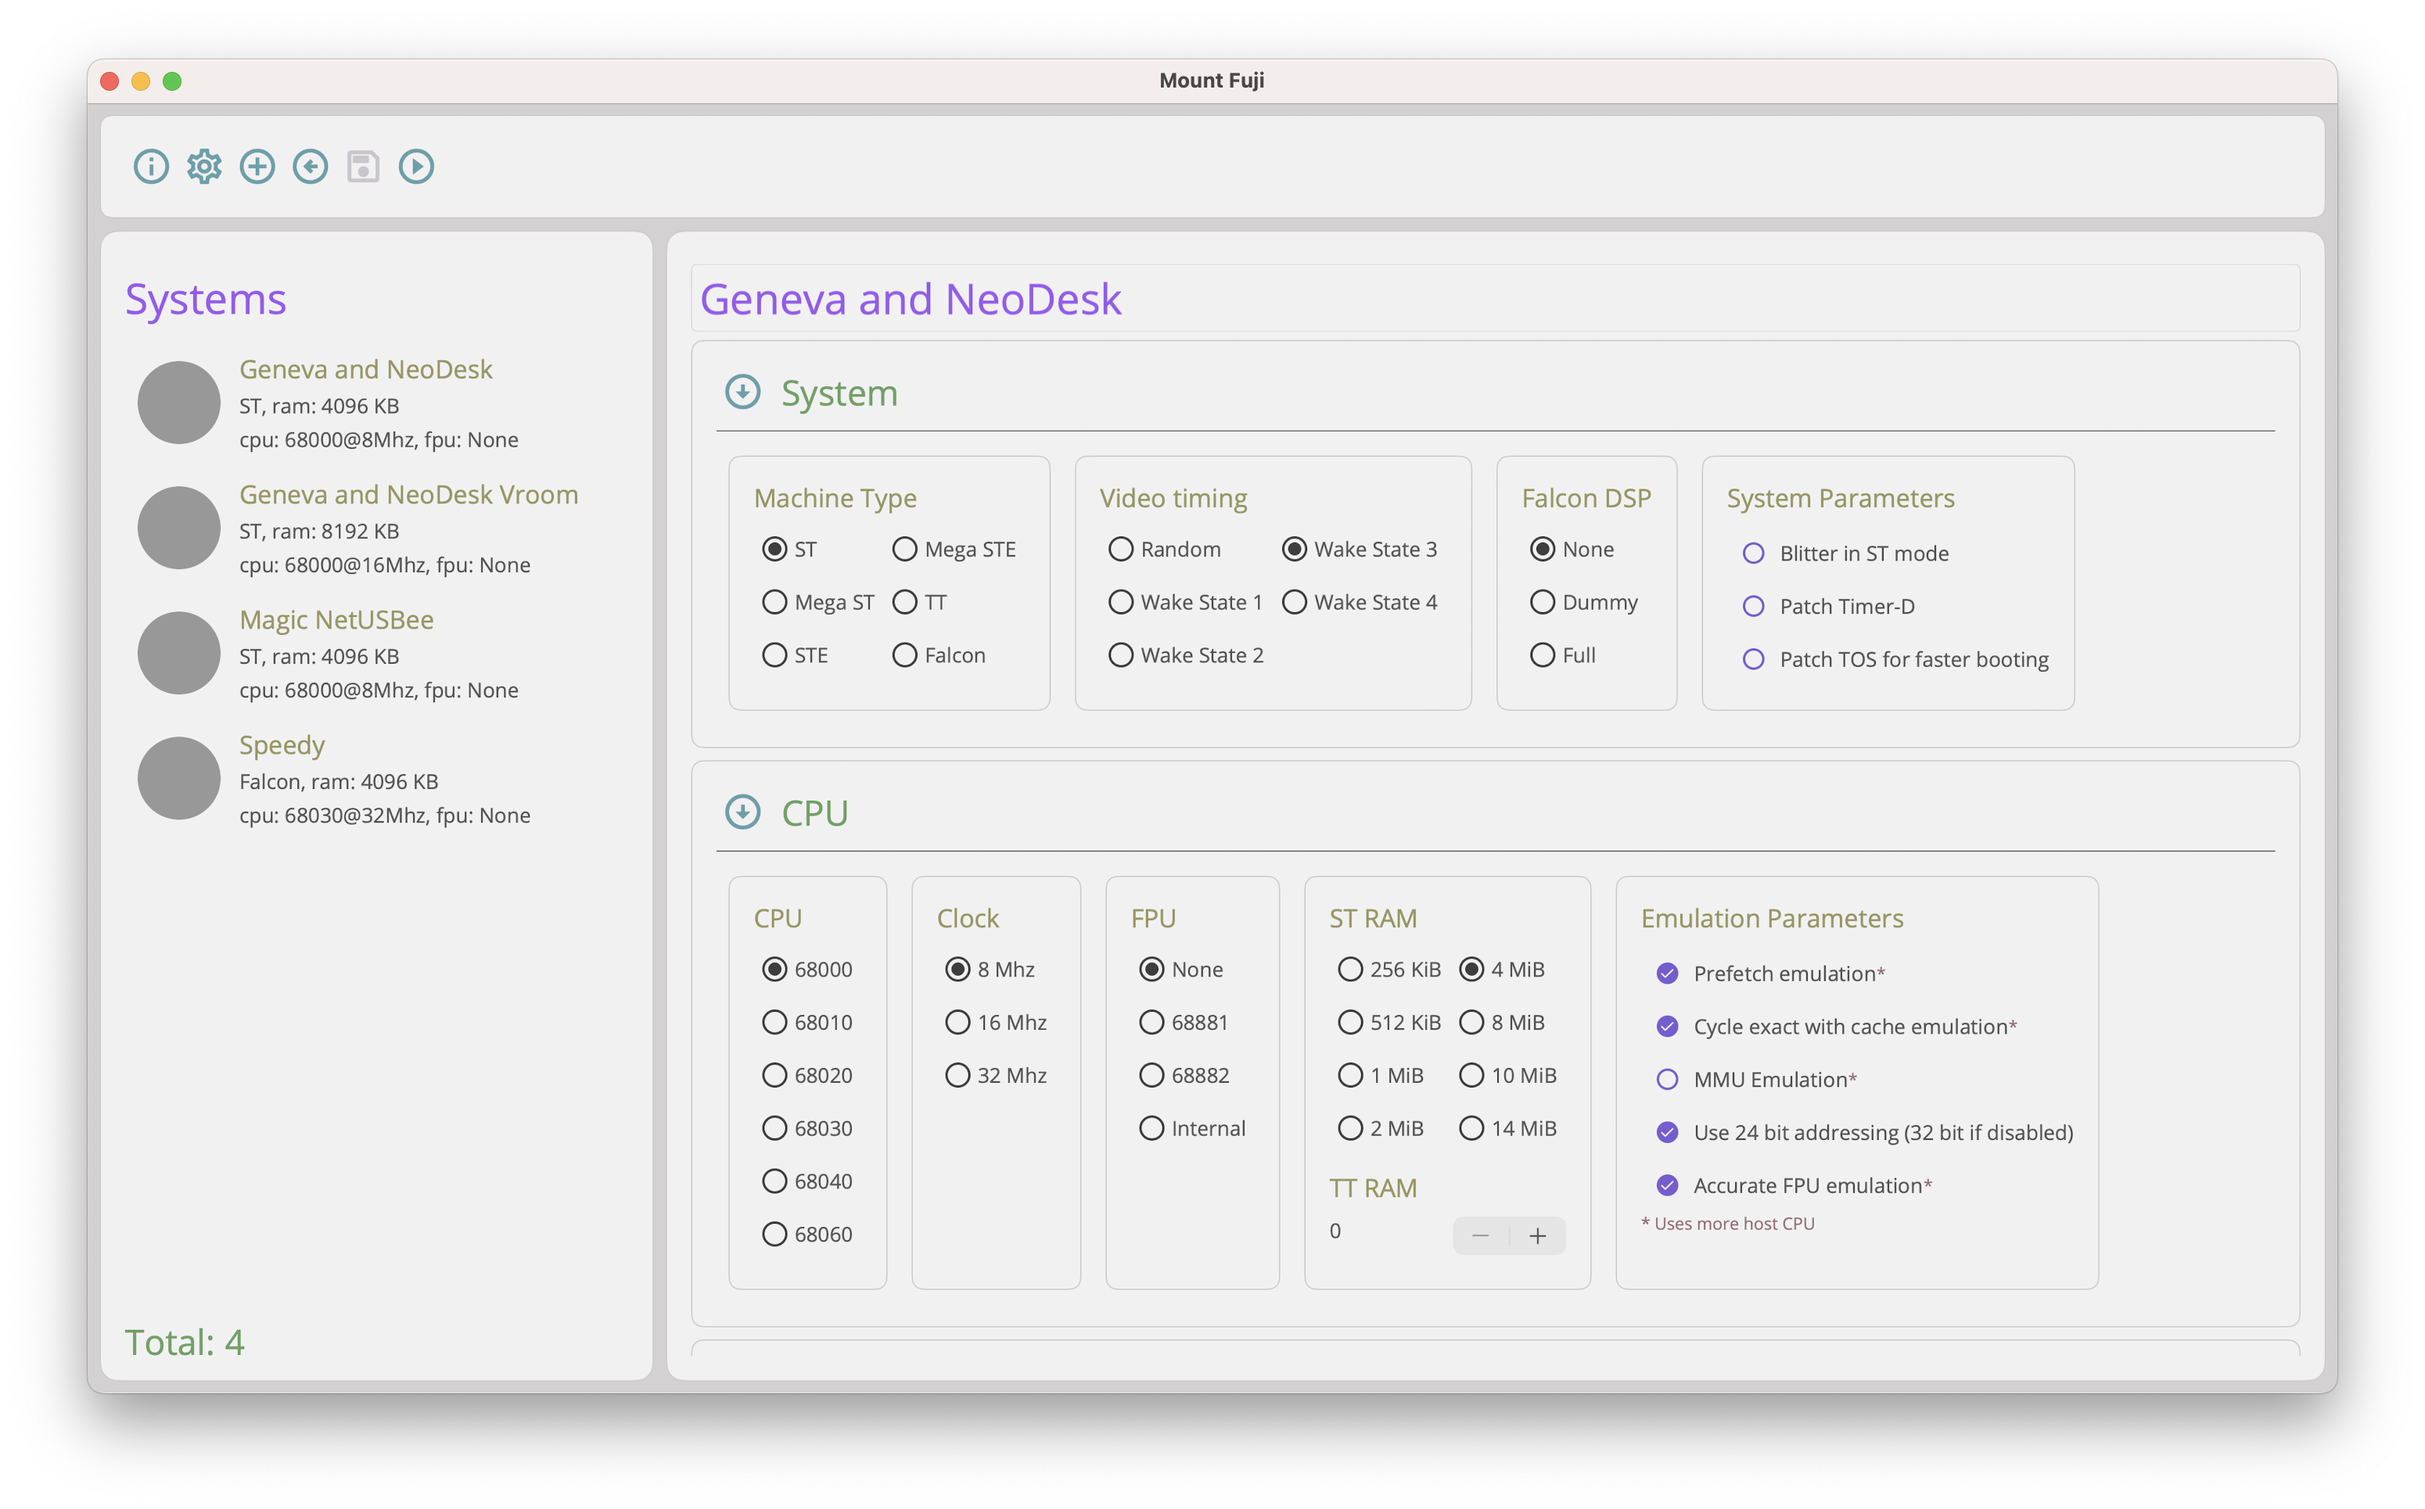
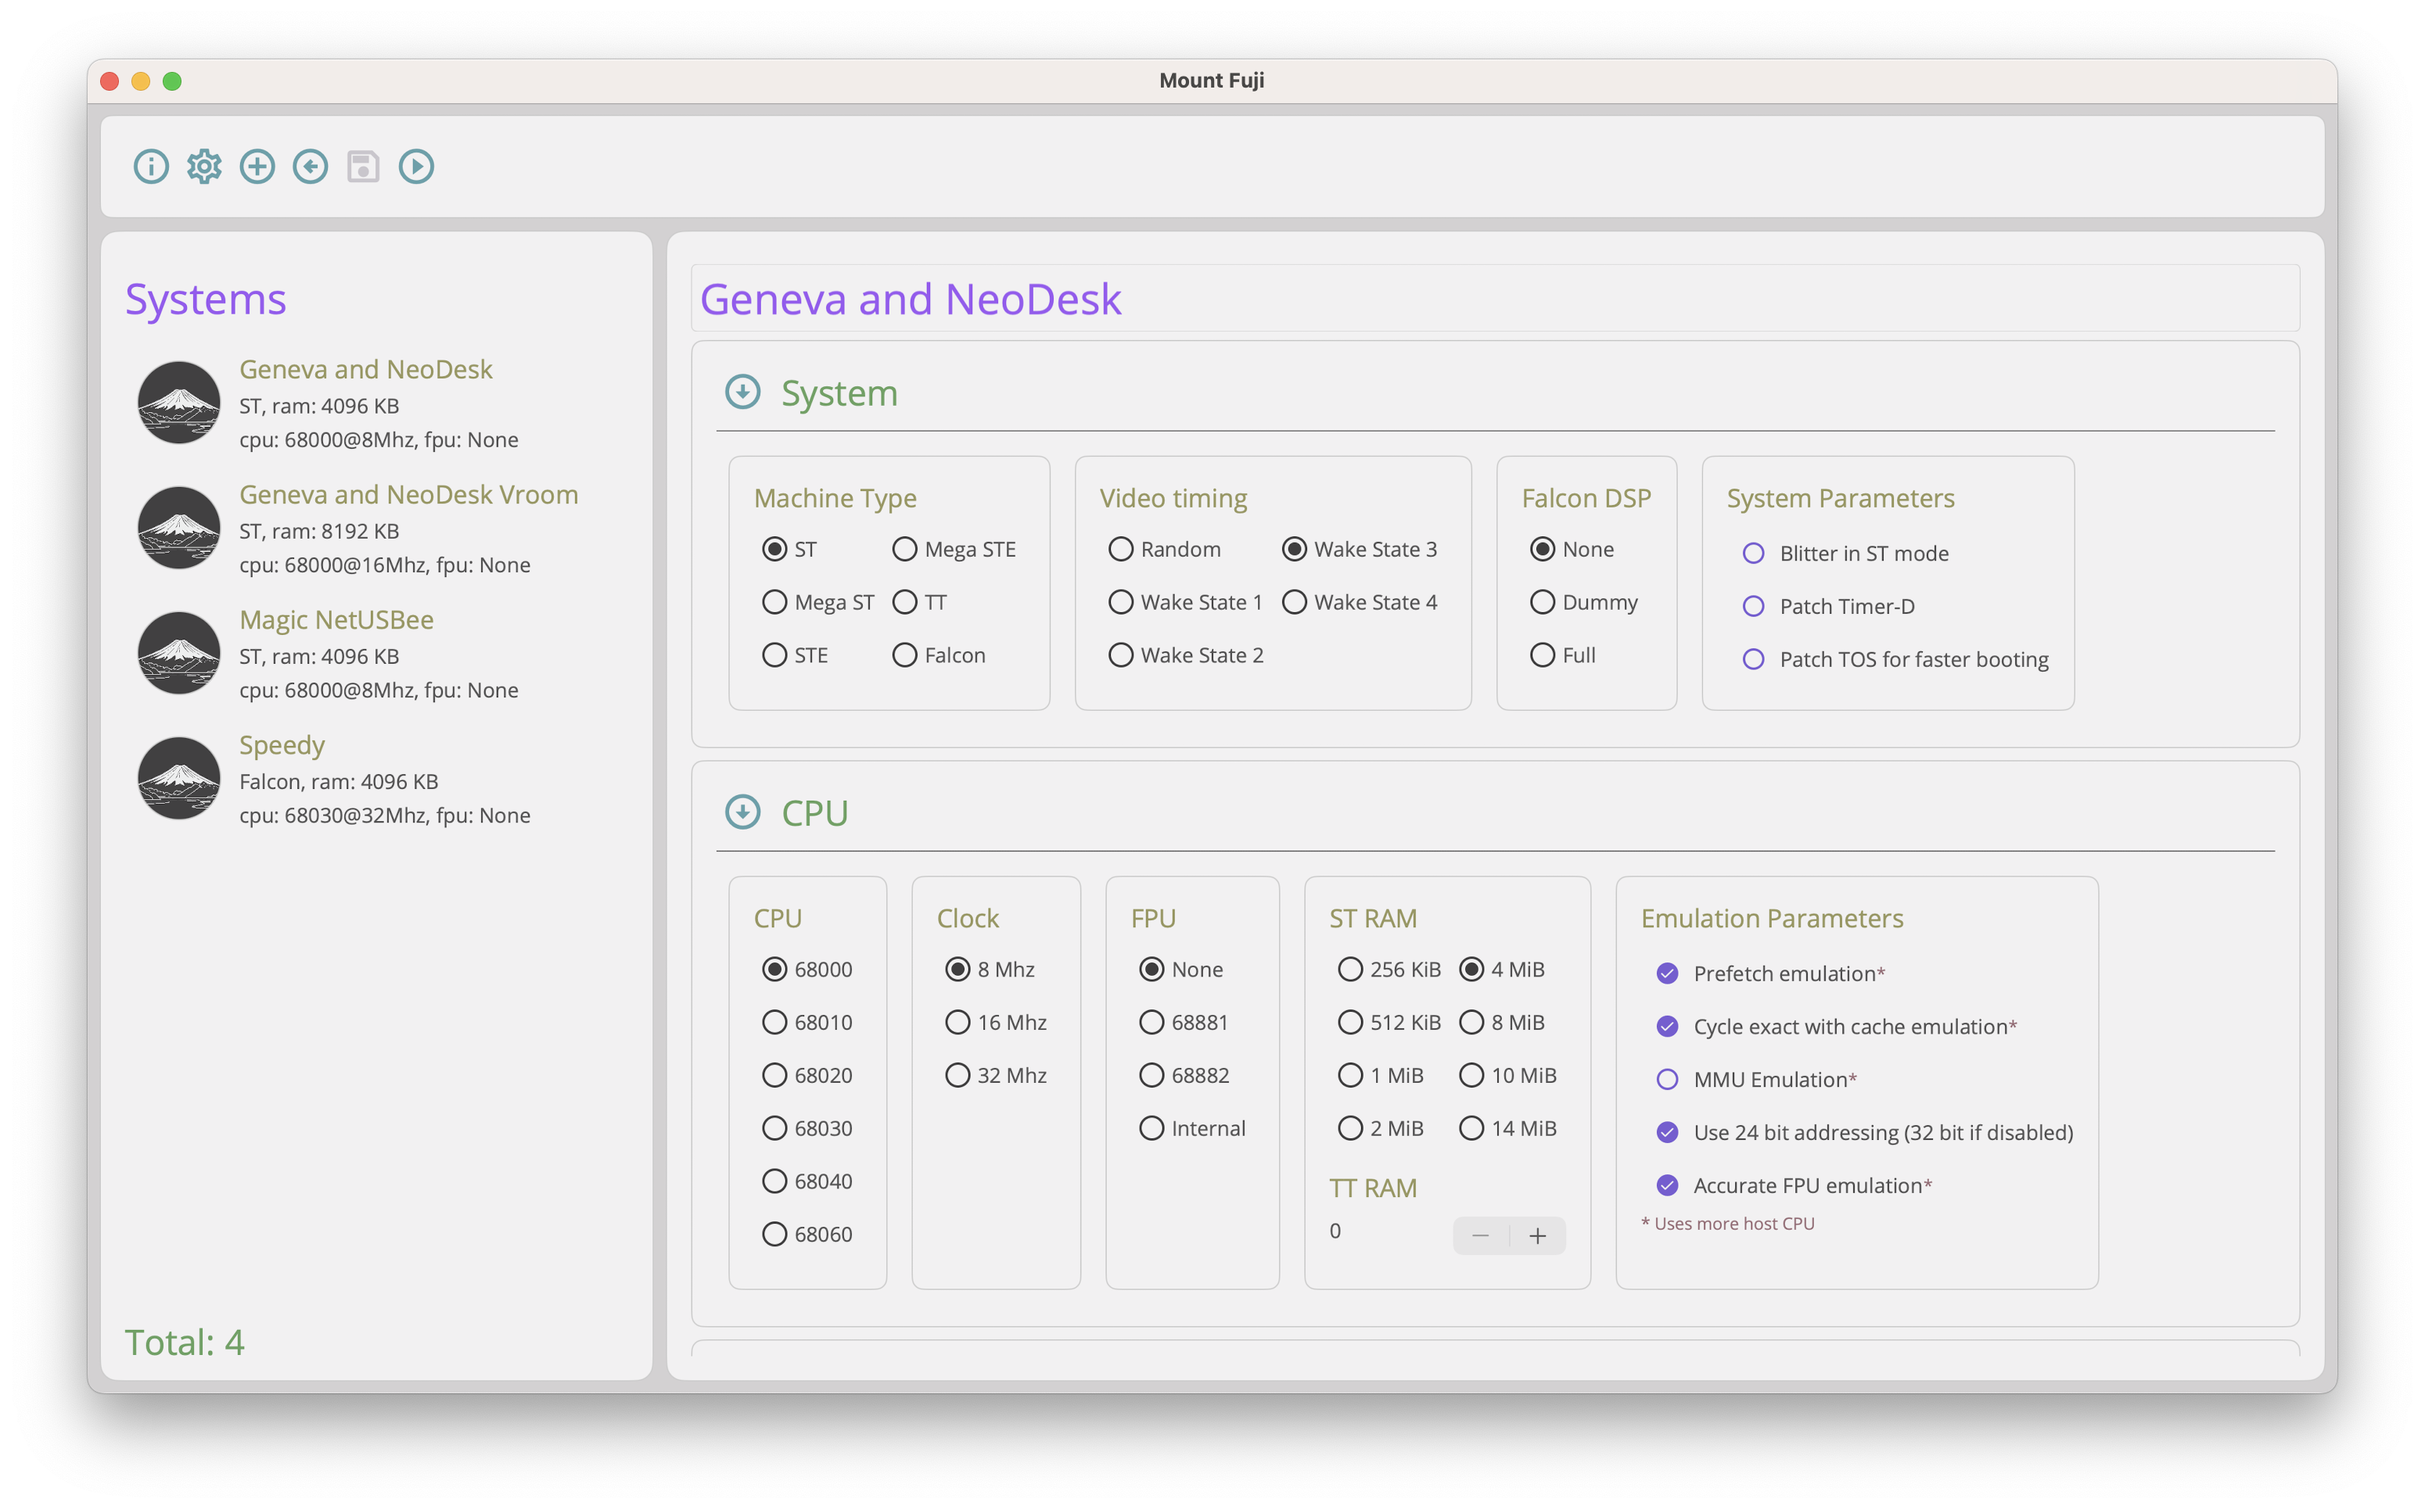
updated screenshot to show iconography

Changed region(s): [[0.031, 0.2176, 0.0929, 0.3731], [0.031, 0.4041, 0.0929, 0.5596]]

diff --git a/MountFujiApp/Controls/SystemSelectorEntry.xaml b/MountFujiApp/Controls/SystemSelectorEntry.xaml
@@ -25,7 +25,19 @@
         <converters:AtariSystemMemorySummaryConverter x:Key="summaryConverter" />
         <converters:CpuSummaryConverter x:Key="cpuConverter" />
     </HorizontalStackLayout.Resources>
-        <RoundRectangle WidthRequest="70" HeightRequest="70" CornerRadius="35" Fill="Gray"></RoundRectangle>
+    
+        <Frame HeightRequest="70"
+               WidthRequest="70"
+               CornerRadius="35"
+               HorizontalOptions="Center"
+               IsClippedToBounds="True"
+               Padding="0"
+               Grid.Column="0" Grid.Row="1"
+               Margin="0,0,0,0">
+
+            <Image Source="fujilogo.png" Aspect="AspectFit" />
+        </Frame>
+    
         <VerticalStackLayout Margin="15,0,0,0">
             <HorizontalStackLayout>
                 <Label Text="{Binding DisplayName}" Style="{StaticResource H3Label}" />

diff --git a/README.md b/README.md
@@ -34,13 +34,14 @@ To discover what the actual configuration of an emulated system is, involves cli
 
 Mount Fuji was birthed out of my lack of organization and like any problem that a developer has, the solution wasn't, get more organized, it was write some code!
 
-So Fuji was born and has started growing. It's certainly not finished yet, but it's at a point where I am using it most of the time for simple configurations. We'll cover the gaps later.
+So Fuji was born and has started growing. It's certainly not finished yet, but it's at a point where I am using it most of the time for most configurations. We'll cover the gaps later.
 
 ![Mount fuji running in all it's glory](Img/fuji-running.png)
 
 Mount Fuji is implemented in .NET Maui a somewhat cross platform development system, at the moment I'm targeting MacOS (shown) and Windows. Windows as it stands isn't ready for release yet, but hopefully will be soon.
 
-Unfortunately Maui does not (at the moment) support Linux, so that will remain a future goal if Microsoft get the finger out and support it. I wouldn't hold your breath for that.
+Unfortunately Maui does not support Linux currently, so that will remain a future goal if Microsoft get their finger out and support it. I wouldn't hold your breath for that.
+
 
 ## The what
 
